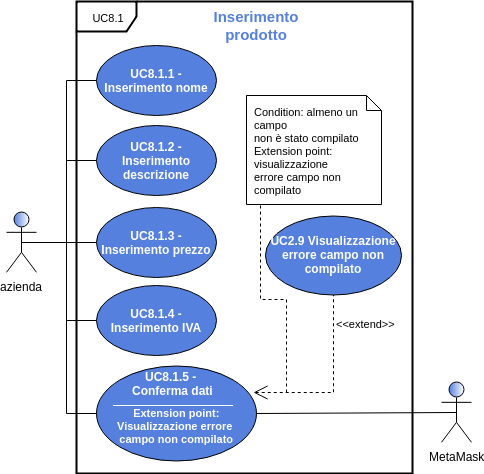
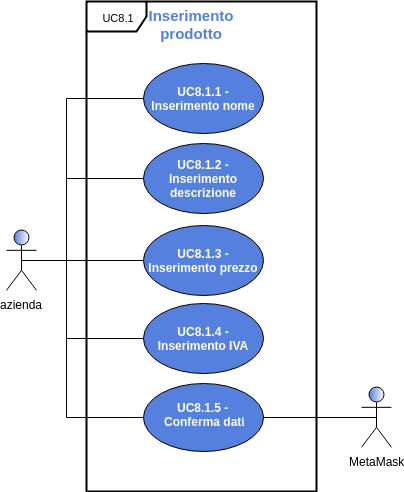
rimosso UC2.9

diff --git a/RR/Esterni/Analisi_dei_requisiti/res/sections/UC/UC1-2-GuidaRegistrazione.tex b/RR/Esterni/Analisi_dei_requisiti/res/sections/UC/UC1-2-GuidaRegistrazione.tex
@@ -229,20 +229,7 @@
 	\item \textbf{Descrizione}:
 	l'utente preme il pulsante per la conferma e l'invio dei dati. A schermo viene mostrato un messaggio che conferma il successo dell'operazione;
 	\item \textbf{Scenario principale}: l'utente preme il pulsante di verifica ed invio dei dati dopo aver compilato i campi del form;
-	\item \textbf{Estensioni}: 
-	\begin{itemize}
-		\item \textbf{UC2.9}: l'utente preme il pulsante di verifica senza aver compilato almeno uno dei campi del form, viene visualizzato il relativo errore;
-	\end{itemize}
 	\item \textbf{Precondizione}: il sistema permette all'utente di compilare il form di registrazione. \`E presente il pulsante per la conferma dei dati;
 	\item \textbf{Postcondizione}: viene visualizzato un messaggio per informare l'utente del fatto che la richiesta di registrazione è avvenuta con successo.
 \end{itemize}
 
-\subsubsection{UC2.9 - Visualizzazione errore campo non compilato}
-\begin{itemize}
-	\item \textbf{Attori Primari}: utente non autenticato;
-	\item \textbf{Descrizione}:
-	l'utente visualizza un messaggio di errore relativo al fatto che almeno uno dei campi del form considerato risulta non compilato;
-	\item \textbf{Scenario principale}: l'utente tenta di confermare ed inviare i dati di un form senza aver compilato tutti i campi;
-	\item \textbf{Precondizione}: il sistema permette all'utente di compilare il form. \`E presente il pulsante per la conferma dei dati;
-	\item \textbf{Postcondizione}:viene visualizzato un messaggio d'errore per informare l'utente del fatto che per inviare i dati e terminare la procedura che sta seguendo deve prima aver compilato tutti i campi presenti nel form.
-\end{itemize}

diff --git a/RR/Esterni/Analisi_dei_requisiti/res/sections/UC/UC8-GestioneBeniVenduti.tex b/RR/Esterni/Analisi_dei_requisiti/res/sections/UC/UC8-GestioneBeniVenduti.tex
@@ -76,12 +76,8 @@
 \begin{itemize}
 	\item \textbf{Attori Primari}: azienda;
 	\item \textbf{Attori Primari}: MetaMask\glo;
-	\item \textbf{Descrizione}: al fine di portare a termine il processo di registrazione l'azienda deve confermare i dati inseriti tramite l'approvazione della transazione, che verrà eseguita attraverso il plug-in MetaMask\glo;
+	\item \textbf{Descrizione}: al fine di portare a termine il processo di inserimento di un prodotto, l'azienda deve confermare i dati inseriti tramite l'approvazione della transazione, che verrà eseguita attraverso il plug-in MetaMask\glo;
 	\item \textbf{Scenario principale}: l'azienda preme il pulsante di conferma dei dati inseriti e valida la transazione con MetaMask\glo;
-	\item \textbf{Estensioni}:
-	\begin{itemize}
-		\item \textbf{UC2.9}: l'utente tenta di confermare i dati senza aver compilato tutti i campi richiesti;
-	\end{itemize}
 	\item \textbf{Precondizione}: il sistema ha reso disponibile il form per l'inserimento dei dati riguardanti il nuovo prodotto, l'azienda ha compilato tutti i campi ed ha premuto il pulsante per la conferma.
 	\item \textbf{Postcondizione}: il nuovo prodotto è stato inserito nella piattaforma e l'azienda visualizza un messaggio di conferma della riuscita dell'operazione.
 \end{itemize}
